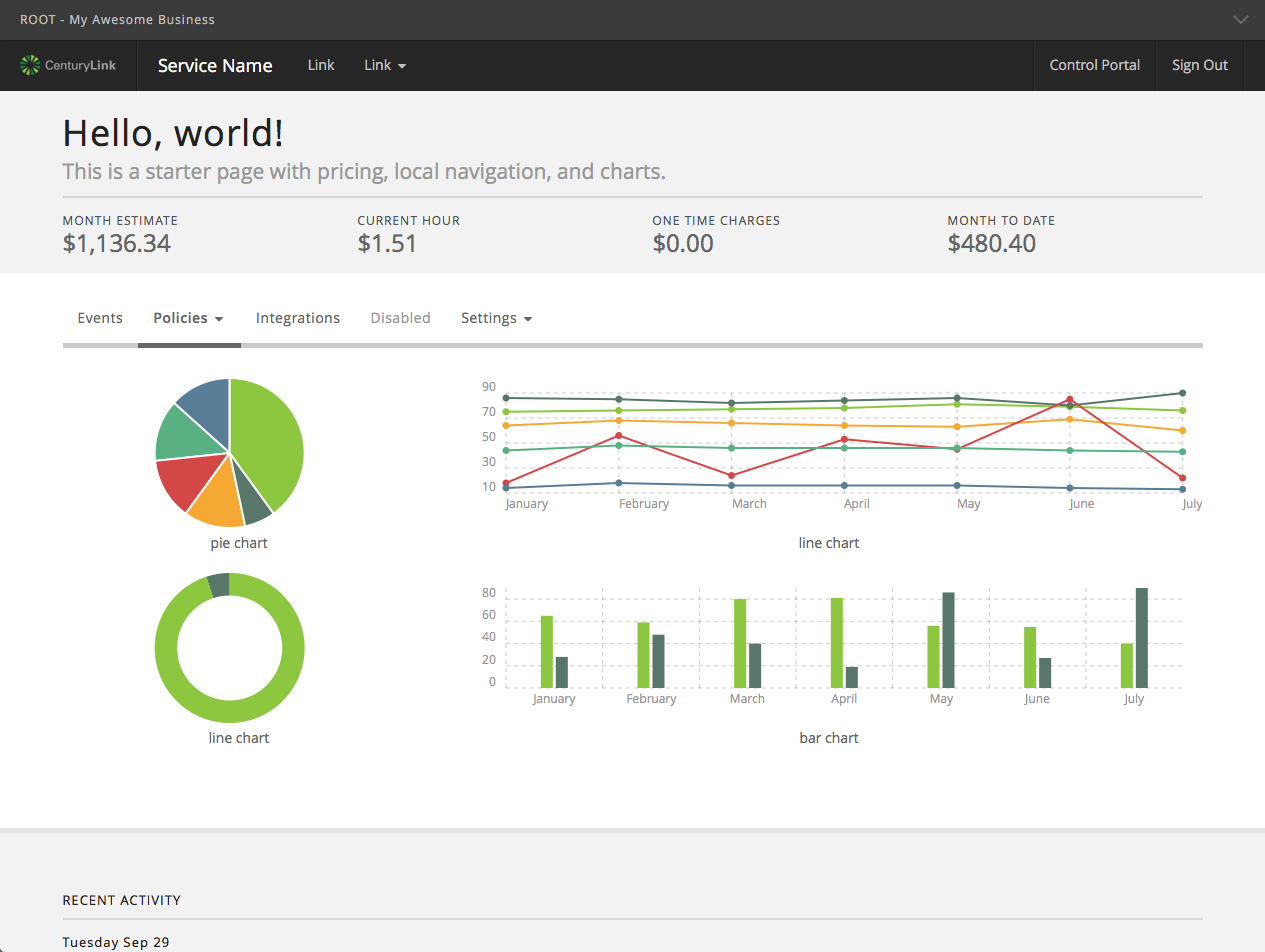
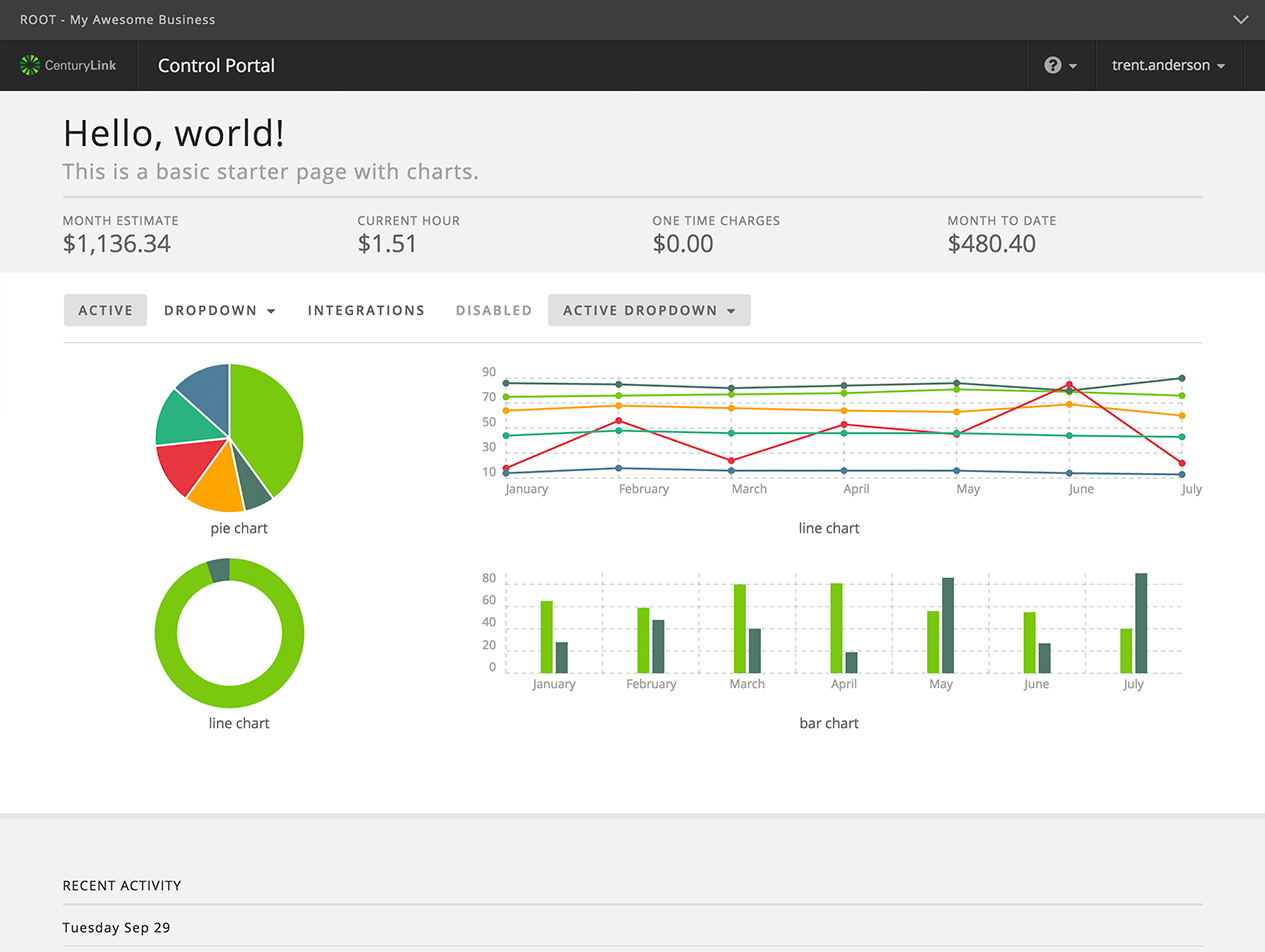
standardize navigation breakpoints

diff --git a/www/views/partials/navigation/examples/nav-local.html b/www/views/partials/navigation/examples/nav-local.html
@@ -6,18 +6,18 @@
 	</div>
 	<div class="navbar-collapse collapse">
 		<ul class="nav navbar-nav">
-			<li class="active"><a href="#navLocal">Events</a></li>
+			<li class="active"><a href="#navLocal">Active</a></li>
 			<li class="dropdown">
-				<a class="dropdown-toggle" data-toggle="dropdown" href="#navLocal" role="button" aria-haspopup="true" aria-expanded="false">Policies <svg class="cyclops-icon" aria-hidden="true"><use xlink:href='#icon-caret-down' /></svg></a>
+				<a class="dropdown-toggle" data-toggle="dropdown" href="#navLocal" role="button" aria-haspopup="true" aria-expanded="false">Dropdown <svg class="cyclops-icon" aria-hidden="true"><use xlink:href='#icon-caret-down' /></svg></a>
 				<ul class="dropdown-menu">
-					<li class="active"><a href="#navLocal">Alert</a></li>
-					<li><a href="#navLocal">Suppression</a></li>
+					<li class="active"><a href="#navLocal">Active Item</a></li>
+					<li><a href="#navLocal">Item</a></li>
 				</ul>
 			</li>
 			<li><a href="#navLocal">Integrations</a></li>
 			<li class="disabled"><a href="#navLocal">Disabled</a></li>
 			<li class="active dropdown">
-				<a class="dropdown-toggle" data-toggle="dropdown" href="#navLocal" role="button" aria-haspopup="true" aria-expanded="false">Settings <svg class="cyclops-icon" aria-hidden="true"><use xlink:href='#icon-caret-down' /></svg></a>
+				<a class="dropdown-toggle" data-toggle="dropdown" href="#navLocal" role="button" aria-haspopup="true" aria-expanded="false">Active Dropdown <svg class="cyclops-icon" aria-hidden="true"><use xlink:href='#icon-caret-down' /></svg></a>
 				<ul class="dropdown-menu">
 					<li><a href="#navLocal">Profile</a></li>
 					<li><a href="#navLocal">Account</a></li>

diff --git a/src/less/variables.less b/src/less/variables.less
@@ -38,7 +38,7 @@
 @grid-gutter-width: 40px;
 // Navbar collapse
 //** Point at which the navbar becomes uncollapsed.
-@grid-float-breakpoint: @screen-sm-min;
+@grid-float-breakpoint: @screen-md-min;
 //** Point at which the navbar begins collapsing.
 @grid-float-breakpoint-max: (@grid-float-breakpoint - 1);
 

diff --git a/www/views/partials/list-view/responsive.html b/www/views/partials/list-view/responsive.html
@@ -1,4 +1,4 @@
-<div class="new-list-view-responsive new-list-view-responsive-sm">
+<div class="new-list-view-responsive new-list-view-responsive-md">
 	{{> list-view/toolbar-border }}
 	<div class="new-list-view-header">
 			<h3 class="col col-25">First Name</h3>

diff --git a/www/views/starterPages/pane.html b/www/views/starterPages/pane.html
@@ -22,7 +22,7 @@
       <div class="row">
         <div class="col-sm-12">
           {{> navigation/examples/nav-local }}
-          {{> list-view/basic }}
+          {{> list-view/responsive }}
         </div>
       </div>
     </div>

diff --git a/src/less/listview.less b/src/less/listview.less
@@ -571,7 +571,7 @@
     margin-bottom: 5px;
   }
 
-  @media (min-width: @screen-sm-min) {
+  @media (min-width: @grid-float-breakpoint) {
 
     .new-list-view-toolbar-right-expanded();
 

diff --git a/src/less/navbar.less b/src/less/navbar.less
@@ -161,7 +161,7 @@
     }
   }
 
-  @media (min-width: @screen-sm-min) {
+  @media (min-width: @grid-float-breakpoint) {
     .clearfix();
     display: block;
     border-radius: 0;
